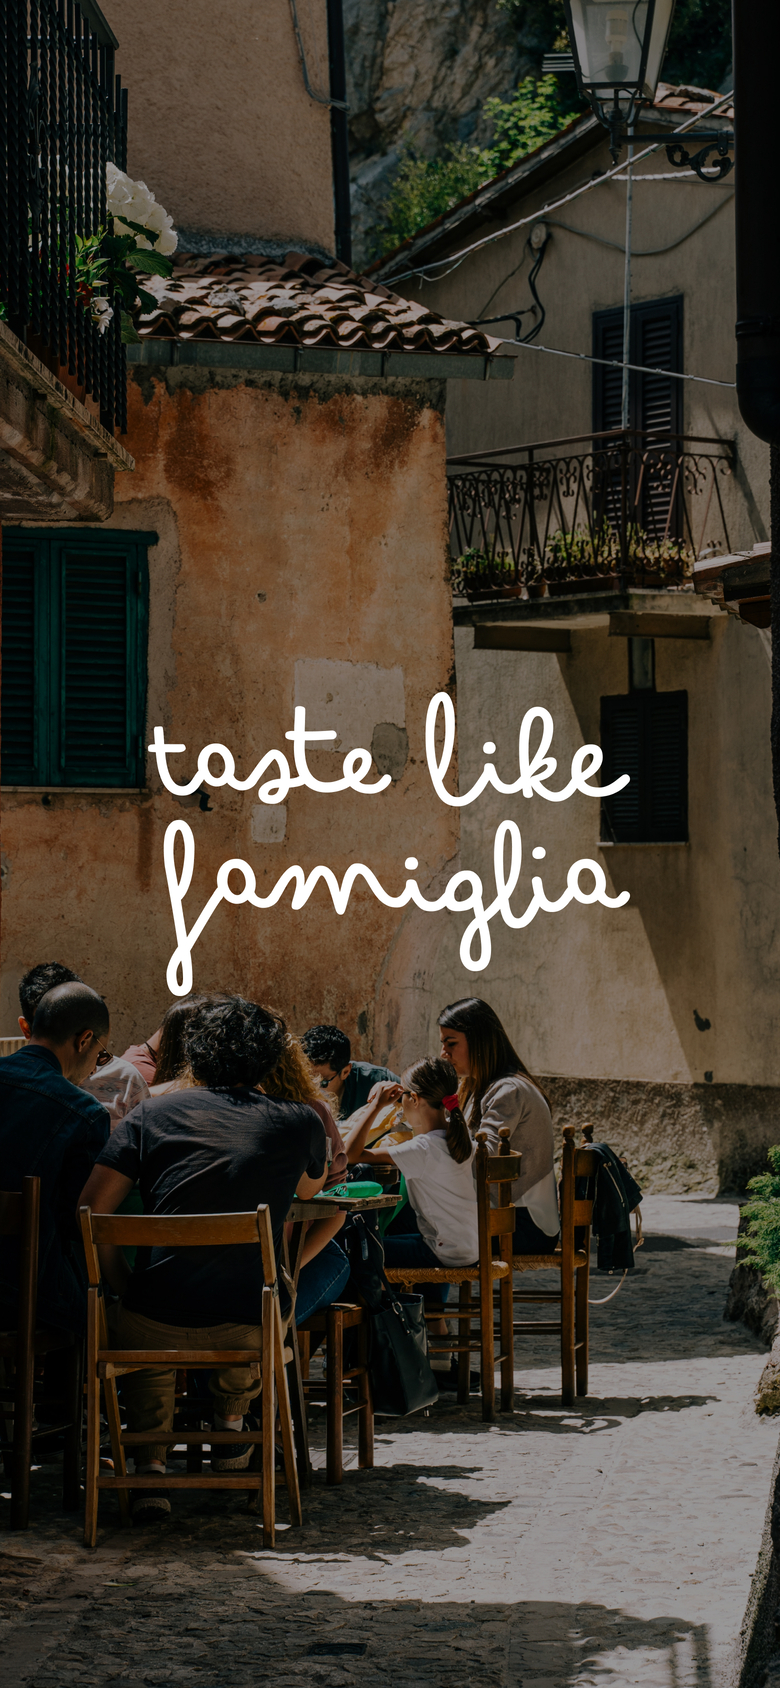
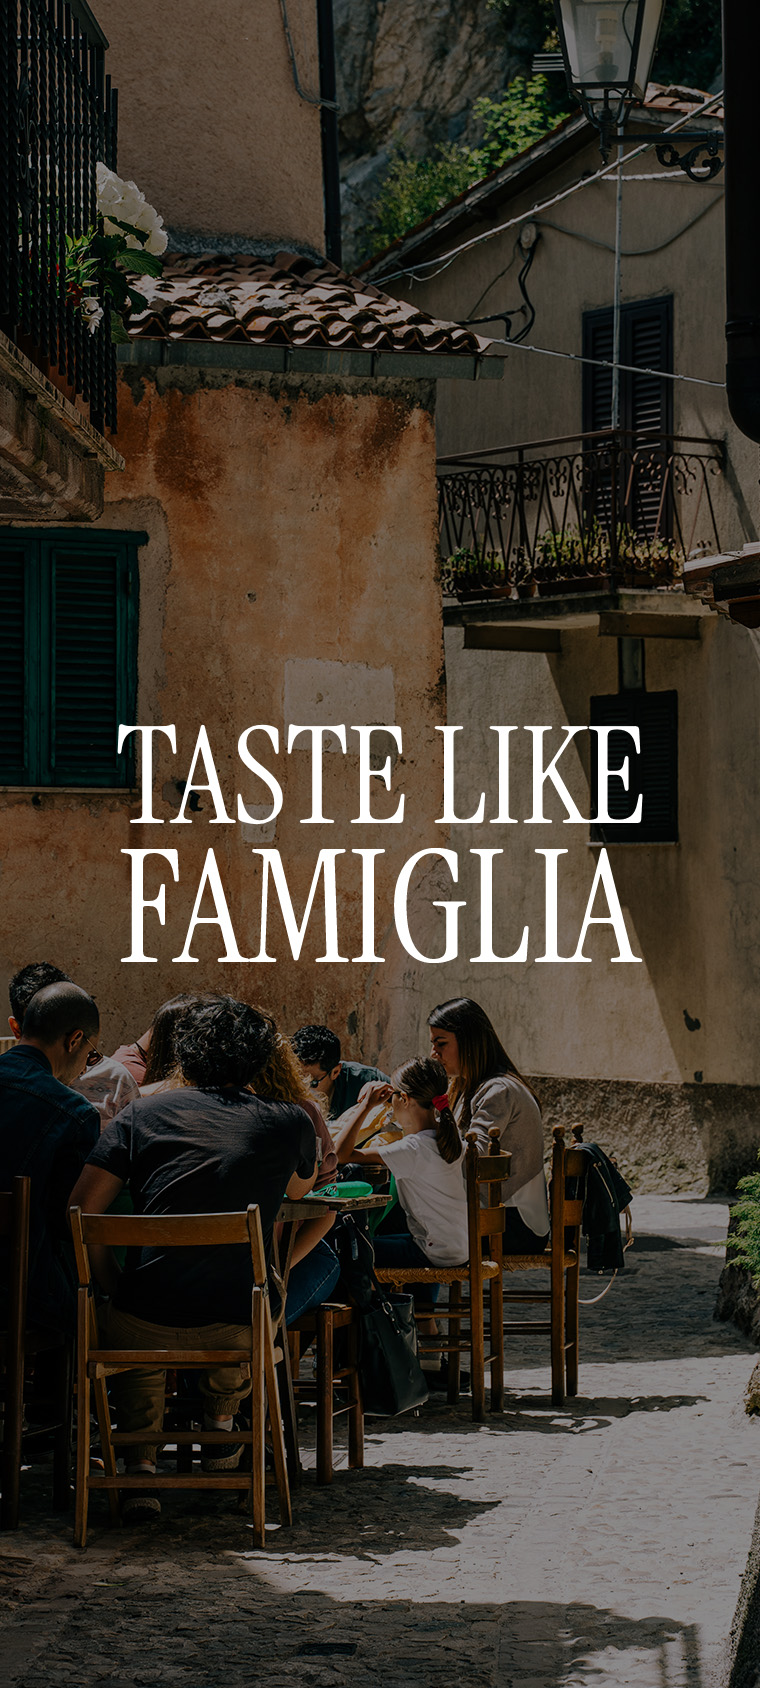
foto

diff --git a/js/work-details.js b/js/work-details.js
@@ -10,7 +10,7 @@ function loadWorkDetails(workId) {
 			name: "Nunnarella",
 			subTitle: "Crafting Delicious Experiences",
             haveCover: true,
-			coverUrl: "./asset/images/works/nunnarella/headerImg.png",
+			coverUrl: "./asset/images/works/nunnarella/headerImg.jpg",
 			slogan: "Where food tastes like famiglia",
             text: "Nunnarella is a wannabe traditional Italian restaurant that brings the authentic taste of Italy to your table. With its warm and welcoming atmosphere, Nullarella takes pride in its traditional approach to cooking, with recipes passed down from generations of Italian families. The new revamped branding showcases the passion and commitment that goes into every dish we serve. We've taken inspiration from Italy's rich cultural heritage, its colors, textures, and designs to create an ambiance that transports you to a different world.",
             showSeeMore: true,
@@ -23,7 +23,7 @@ function loadWorkDetails(workId) {
                 "./asset/images/works/nunnarella/8Nunna.jpg",
                 "../asset/images/works/nunnarella/5Nunna.png",
                 "../asset/images/works/nunnarella/6Nunna.png",
-                "./asset/images/works/nunnarella/3Nunna.png",
+                "./asset/images/works/nunnarella/3Nunna.jpg",
                 "./asset/images/works/nunnarella/2Nunna.jpg",
             ],
             tags: [

diff --git a/works.html b/works.html
@@ -62,7 +62,7 @@
         <div class="col-12 col-md-3 mb-md-0 mb-3">
             <div class="workContainer mb-3">
                 <a href="./work-details.html?work=nunnarella">
-                    <img src="./asset/images/works/nunnarellaCover2.png" class="workImg">
+                    <img src="./asset/images/works/nunnarellaCover2.jpg" class="workImg">
                 </a>
             </div>
             <div class="text-center fs-3 neueMed lh-sm">Nunnarella</div>
